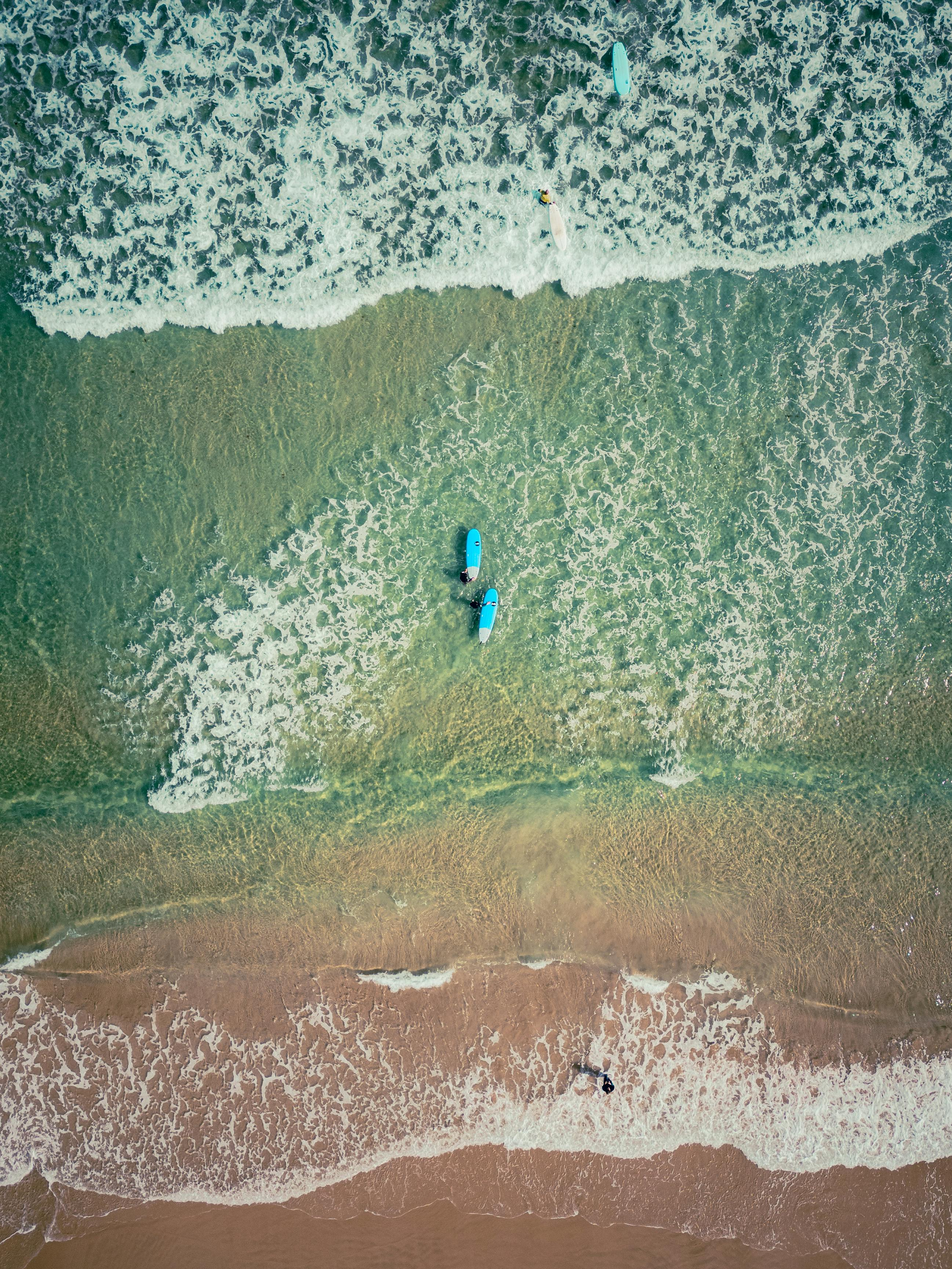
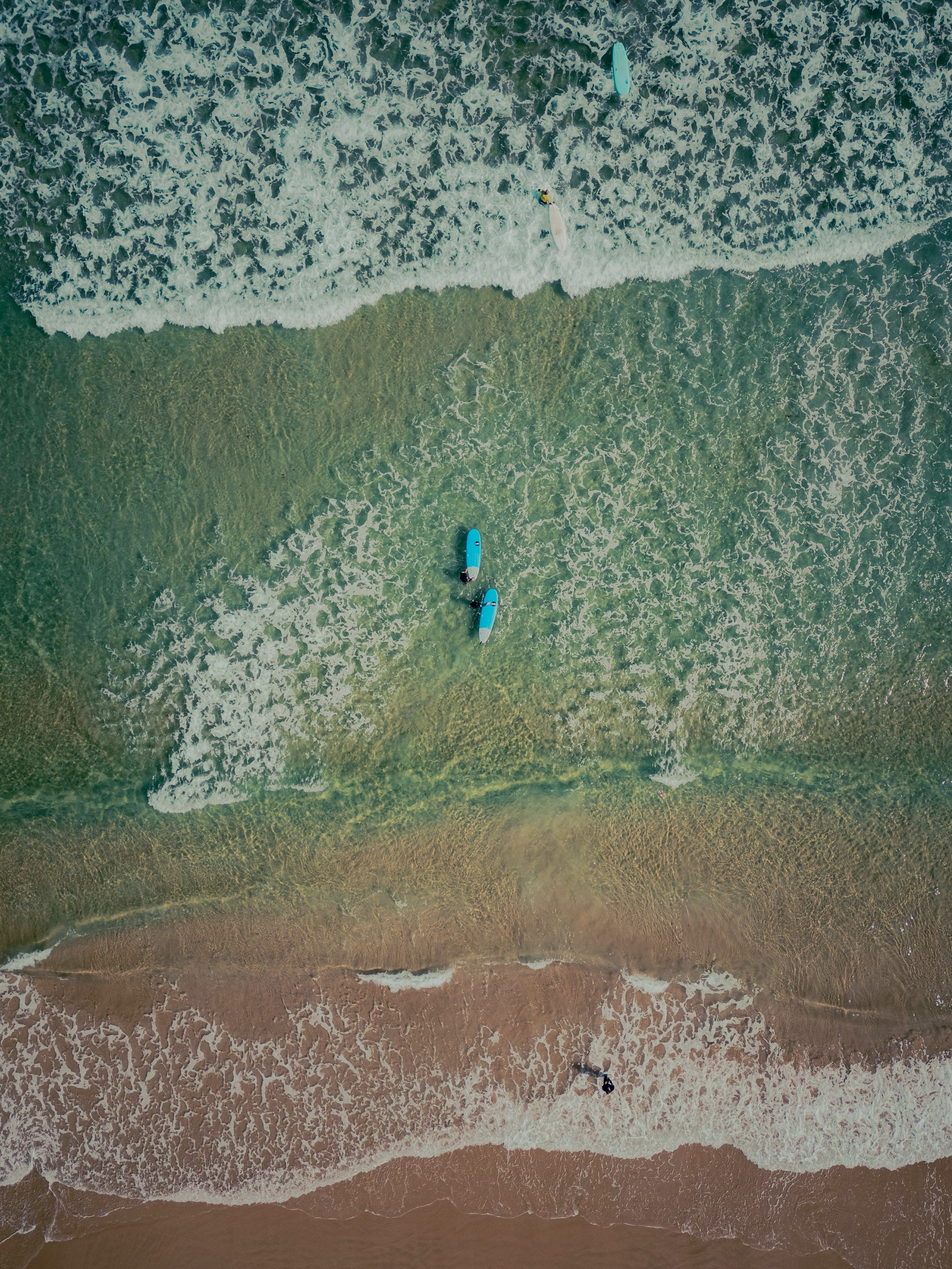
set and polished the blog section

diff --git a/src/Components/Blog.jsx b/src/Components/Blog.jsx
@@ -1,186 +1,132 @@
-import React, { useState } from "react";
+import { useEffect, useState } from "react";
 import BlogForm from "./BlogForm";
 import BlogCard from "./BlogCard";
-import BlogBg from "../Assets/blog-bg2.jpg";
+import BlogBg from "../Assets/blog-bg1.jpg";
+import api from "../api/axios";
+import { useAuth } from "../auth/AuthContext";
 
-const Blog = ({ userRole = "member" }) => {
-  // ======================== CHANGE #1: MOCK DATA ========================
-  // TODO: Replace this useState with useEffect that fetches blogs from backend
-  // Example: useEffect(() => { fetchBlogs from API }, [])
-  const [blogs, setBlogs] = useState([
-    {
-      id: 1,
-      title: "Getting Started with Fitness Training",
-      content:
-        "Lorem ipsum dolor sit amet, consectetur adipiscing elit. Sed do eiusmod tempor incididunt ut labore et dolore magna aliqua. Ut enim ad minim veniam, quis nostrud exercitation ullamco laboris nisi ut aliquip ex ea commodo consequat.",
-      author: "John Trainer",
-      createdAt: new Date("2024-01-10"),
-      likes: 24,
-      comments: 5,
-      isHidden: false,
-    },
-    {
-      id: 2,
-      title: "Nutrition Tips for Better Performance",
-      content:
-        "Duis aute irure dolor in reprehenderit in voluptate velit esse cillum dolore eu fugiat nulla pariatur. Excepteur sint occaecat cupidatat non proident, sunt in culpa qui officia deserunt mollit anim id est laborum.",
-      author: "Jane Member",
-      createdAt: new Date("2024-01-08"),
-      likes: 15,
-      comments: 3,
-      isHidden: false,
-    },
-  ]);
-  // ====================================================================
+const Blog = () => {
+  const { user } = useAuth();
 
-  const [filter, setFilter] = useState("all");
+  const [blogs, setBlogs] = useState([]);
   const [searchTerm, setSearchTerm] = useState("");
+  const [filter, setFilter] = useState("all");
+  const [loading, setLoading] = useState(true);
 
-  // ======================== CHANGE #2: CREATE BLOG ========================
-  // TODO: Replace this with POST request to your backend API
-  // Example: POST /api/blogs with formData
-  const handleBlogSubmit = (formData) => {
-    return new Promise((resolve) => {
-      setTimeout(() => {
-        const newBlog = {
-          id: blogs.length + 1,
-          ...formData,
-          author: userRole === "admin" ? "Admin User" : "You",
-          createdAt: new Date(),
-          likes: 0,
-          comments: 0,
-          isHidden: false,
-        };
-        setBlogs((prev) => [newBlog, ...prev]);
-        resolve();
-      }, 500);
-    });
-  };
-  // ====================================================================
+  // 🔹 Load blogs
+  useEffect(() => {
+    loadBlogs();
+  }, []);
 
-  // ======================== CHANGE #3: DELETE BLOG ========================
-  // TODO: Replace this with DELETE request to your backend API
-  // Example: DELETE /api/blogs/{id}
-  const handleDeleteBlog = (id) => {
-    if (window.confirm("Are you sure you want to delete this blog?")) {
-      setBlogs((prev) => prev.filter((blog) => blog.id !== id));
+  const loadBlogs = async () => {
+    try {
+      const res = await api.get("/blogs");
+      setBlogs(res.data);
+    } catch (err) {
+      console.error("Failed to load blogs", err);
+    } finally {
+      setLoading(false);
     }
   };
-  // =====================================================================
 
-  // ======================== CHANGE #4: TOGGLE HIDE ========================
-  // TODO: Replace this with PUT/PATCH request to your backend API
-  // Example: PATCH /api/blogs/{id} with { isHidden: newStatus }
-  const handleToggleHide = (id) => {
-    setBlogs((prev) =>
-      prev.map((blog) =>
-        blog.id === id ? { ...blog, isHidden: !blog.isHidden } : blog
-      )
-    );
+  // 🔹 Create blog
+  const handleBlogSubmit = async (formData) => {
+    try {
+      const res = await api.post("/blogs", formData);
+
+      // re-fetch OR optimistically add
+      await loadBlogs();
+
+      return res.data;
+    } catch (err) {
+      console.error("Failed to create blog", err);
+      throw err;
+    }
   };
-  // =====================================================================
 
-  // Filter blogs
-  const filteredBlogs = blogs
-    .filter((blog) => {
-      if (filter === "hidden") return blog.isHidden;
-      if (filter === "visible") return !blog.isHidden;
-      return true;
-    })
-    .filter((blog) =>
-      blog.title.toLowerCase().includes(searchTerm.toLowerCase()) ||
-      blog.content.toLowerCase().includes(searchTerm.toLowerCase()) ||
-      blog.author.toLowerCase().includes(searchTerm.toLowerCase())
-    );
+  // 🔹 Delete blog
+  const handleDeleteBlog = async (id) => {
+    if (!window.confirm("Delete this blog?")) return;
+
+    try {
+      await api.delete(`/blogs/${id}`);
+      setBlogs(prev => prev.filter(b => b.id !== id));
+    } catch (err) {
+      console.error("Failed to delete blog", err);
+    }
+  };
+
+  // 🔹 Search blogs (server-side)
+  useEffect(() => {
+    const delay = setTimeout(async () => {
+      try {
+        if (!searchTerm.trim()) {
+          loadBlogs();
+        } else {
+          const res = await api.get(`/blogs/search?q=${searchTerm}`);
+          setBlogs(res.data);
+        }
+      } catch (err) {
+        console.error("Search failed", err);
+      }
+    }, 400);
+
+    return () => clearTimeout(delay);
+  }, [searchTerm]);
+
+  if (loading) return <div className="text-white">Loading blogs...</div>;
 
   return (
-    <div id="blogs" className="min-h-screen mx-6 rounded-4xl py-20" style={{backgroundImage: `url(${BlogBg})`, backgroundSize: 'cover', backgroundPosition: 'center'}}>
+    <div
+      id="blogs"
+      className="min-h-screen mx-6 rounded-4xl py-20"
+      style={{
+        backgroundImage: `url(${BlogBg})`,
+        backgroundSize: "cover",
+        backgroundPosition: "center",
+      }}
+    >
       <div className="max-w-4xl mx-auto px-6">
-        {/* Page Header */}
+
+        {/* Header */}
         <div className="text-center mb-12">
-          <h1 className="text-4xl md:text-5xl font-bold text-green-300 mb-4">
-            Community Blog
+          <h1 className="text-4xl text-green-300 font-bold mb-4">
+            Community Blogs
           </h1>
-          <p className="text-white text-lg md:text-xl">
-            Share your journey, tips, and experiences with our community
+          <p className="text-green-300 text-lg">
+            Share your journey with the community
           </p>
         </div>
 
-        {/* Blog Form - Only show for members and admins */}
-        {(userRole === "member" || userRole === "admin") && (
-            <BlogForm onSubmit={handleBlogSubmit} userRole={userRole} />
-        )}
+        {/* Create */}
+        {user && <BlogForm onSubmit={handleBlogSubmit} />}
 
-        {/* Search and Filter */}
-        <div className="mb-8 space-y-4">
-          {/* Search Bar */}
-          <div>
-            <input
-              type="text"
-              placeholder="Search blogs by title, content, or author..."
-              value={searchTerm}
-              onChange={(e) => setSearchTerm(e.target.value)}
-              className="w-full px-4 py-3 bg-slate-800 border border-green-400 rounded text-white placeholder-gray-500 focus:outline-none focus:border-green-300"
-            />
-          </div>
-
-          {/* Filter Tabs */}
-          <div className="flex gap-4">
-            <button
-              onClick={() => setFilter("all")}
-              className={`px-4 py-2 rounded font-semibold transition ${
-                filter === "all"
-                  ? "bg-green-500 text-slate-900"
-                  : "bg-slate-800 text-green-300 border border-green-400 hover:bg-slate-700"
-              }`}
-            >
-              All Blogs ({blogs.length})
-            </button>
-            {userRole === "admin" && (
-              <>
-                <button
-                  onClick={() => setFilter("visible")}
-                  className={`px-4 py-2 rounded font-semibold transition ${
-                    filter === "visible"
-                      ? "bg-green-500 text-slate-900"
-                      : "bg-slate-800 text-green-300 border border-green-400 hover:bg-slate-700"
-                  }`}
-                >
-                  Visible ({blogs.filter((b) => !b.isHidden).length})
-                </button>
-                <button
-                  onClick={() => setFilter("hidden")}
-                  className={`px-4 py-2 rounded font-semibold transition ${
-                    filter === "hidden"
-                      ? "bg-green-500 text-slate-900"
-                      : "bg-slate-800 text-green-300 border border-green-400 hover:bg-slate-700"
-                  }`}
-                >
-                  Hidden ({blogs.filter((b) => b.isHidden).length})
-                </button>
-              </>
-            )}
-          </div>
+        {/* Search */}
+        <div className="mb-8">
+          <input
+            type="text"
+            placeholder="Search blogs..."
+            value={searchTerm}
+            onChange={(e) => setSearchTerm(e.target.value)}
+            className="w-full px-4 py-3 border border-green-400 rounded text-green-300 placeholder-green-200"
+          />
         </div>
 
-        {/* Blogs List */}
-        <div className="max-h-[600px] overflow-y-auto space-y-6 pr-4">
-          {filteredBlogs.length > 0 ? (
-            filteredBlogs.map((blog) => (
+        {/* List */}
+        <div className="max-h-150 overflow-y-auto space-y-6 pr-4">
+          {blogs.length > 0 ? (
+            blogs.map(blog => (
               <BlogCard
                 key={blog.id}
                 blog={blog}
-                userRole={userRole}
                 onDelete={handleDeleteBlog}
-                onToggleHide={handleToggleHide}
               />
             ))
           ) : (
-            <div className="text-center py-12">
-              <p className="text-gray-400 text-lg">No blogs found</p>
-            </div>
+            <p className="text-center text-gray-400">No blogs found</p>
           )}
         </div>
+
       </div>
     </div>
   );

diff --git a/src/Components/BlogForm.jsx b/src/Components/BlogForm.jsx
@@ -36,9 +36,9 @@ const BlogForm = ({ onSubmit, userRole }) => {
   };
 
   return (
-    <div className=" border border-black rounded-lg p-6 mb-8">
+    <div className="border border-green-400 rounded-lg p-6 mb-8">
       <div className="flex justify-between items-center">
-        <h2 className="text-2xl font-bold text-white">Create a New Blog Post</h2>
+        <h2 className="text-2xl font-bold text-green-300">Create a New Blog Post</h2>
         <button
           onClick={() => setIsCollapsed(!isCollapsed)}
           className="text-green-300 hover:text-green-200 transition text-xl"
@@ -59,7 +59,7 @@ const BlogForm = ({ onSubmit, userRole }) => {
             value={formData.title}
             onChange={handleChange}
             placeholder="Enter blog title"
-            className="w-full px-4 py-2 border border-green-400 rounded text-white placeholder-gray-500 focus:outline-none focus:border-green-300"
+            className="w-full px-4 py-2 border border-green-400 rounded text-white placeholder-green-200 focus:outline-none focus:border-green-300"
             maxLength={200}
           />
           <p className="text-xs text-gray-400 mt-1">{formData.title.length}/200</p>
@@ -73,7 +73,7 @@ const BlogForm = ({ onSubmit, userRole }) => {
             value={formData.content}
             onChange={handleChange}
             placeholder="Write your blog content here..."
-            className="w-full px-4 py-2 bg-slate-700 border border-green-400 rounded text-white placeholder-gray-500 focus:outline-none focus:border-green-300 h-48 resize-none"
+            className="w-full px-4 py-2 border border-green-400 rounded text-white placeholder-gray-500 focus:outline-none focus:border-green-300 h-48 resize-none"
             maxLength={5000}
           />
           <p className="text-xs text-gray-400 mt-1">{formData.content.length}/5000</p>

diff --git a/src/Components/BlogCard.jsx b/src/Components/BlogCard.jsx
@@ -2,7 +2,7 @@ import React from "react";
 
 const BlogCard = ({ blog, userRole, onDelete, onToggleHide }) => {
   return (
-    <div className="bg-slate-800 border border-green-400 rounded-lg p-6 mb-6 hover:border-green-300 transition">
+    <div className="bg-linear-to-br from-green-950 via-transparent border border-green-400 rounded-lg p-6 mb-6 hover:border-green-300 transition">
       {/* Blog Header */}
       <div className="flex justify-between items-start mb-4">
         <div>
@@ -33,13 +33,6 @@ const BlogCard = ({ blog, userRole, onDelete, onToggleHide }) => {
         )}
       </div>
 
-      {/* Hidden Badge */}
-      {blog.isHidden && (
-        <div className="inline-block bg-yellow-600 text-white text-xs px-2 py-1 rounded mb-4">
-          Hidden by Admin
-        </div>
-      )}
-
       {/* Blog Content */}
       <p className="text-gray-300 mb-4 line-clamp-3">{blog.content}</p>
 
@@ -50,9 +43,9 @@ const BlogCard = ({ blog, userRole, onDelete, onToggleHide }) => {
       </div> */}
 
       {/* Read More Button */}
-      <button className="mt-4 px-4 py-2 border border-green-400 text-green-400 rounded hover:bg-green-400 hover:text-slate-900 transition">
+{/*       <button className="mt-4 px-4 py-2 border border-green-400 text-green-400 rounded hover:bg-green-400 hover:text-slate-900 transition">
         Read More
-      </button>
+      </button> */}
     </div>
   );
 };

diff --git a/src/pages/admin/Users.jsx b/src/pages/admin/Users.jsx
@@ -6,7 +6,6 @@ export default function Users() {
 
   useEffect(() => {
     api.get("/admin/users").then(res => {
-      console.log(res.data);
       setUsers(res.data);
     })
     .catch(err => {
